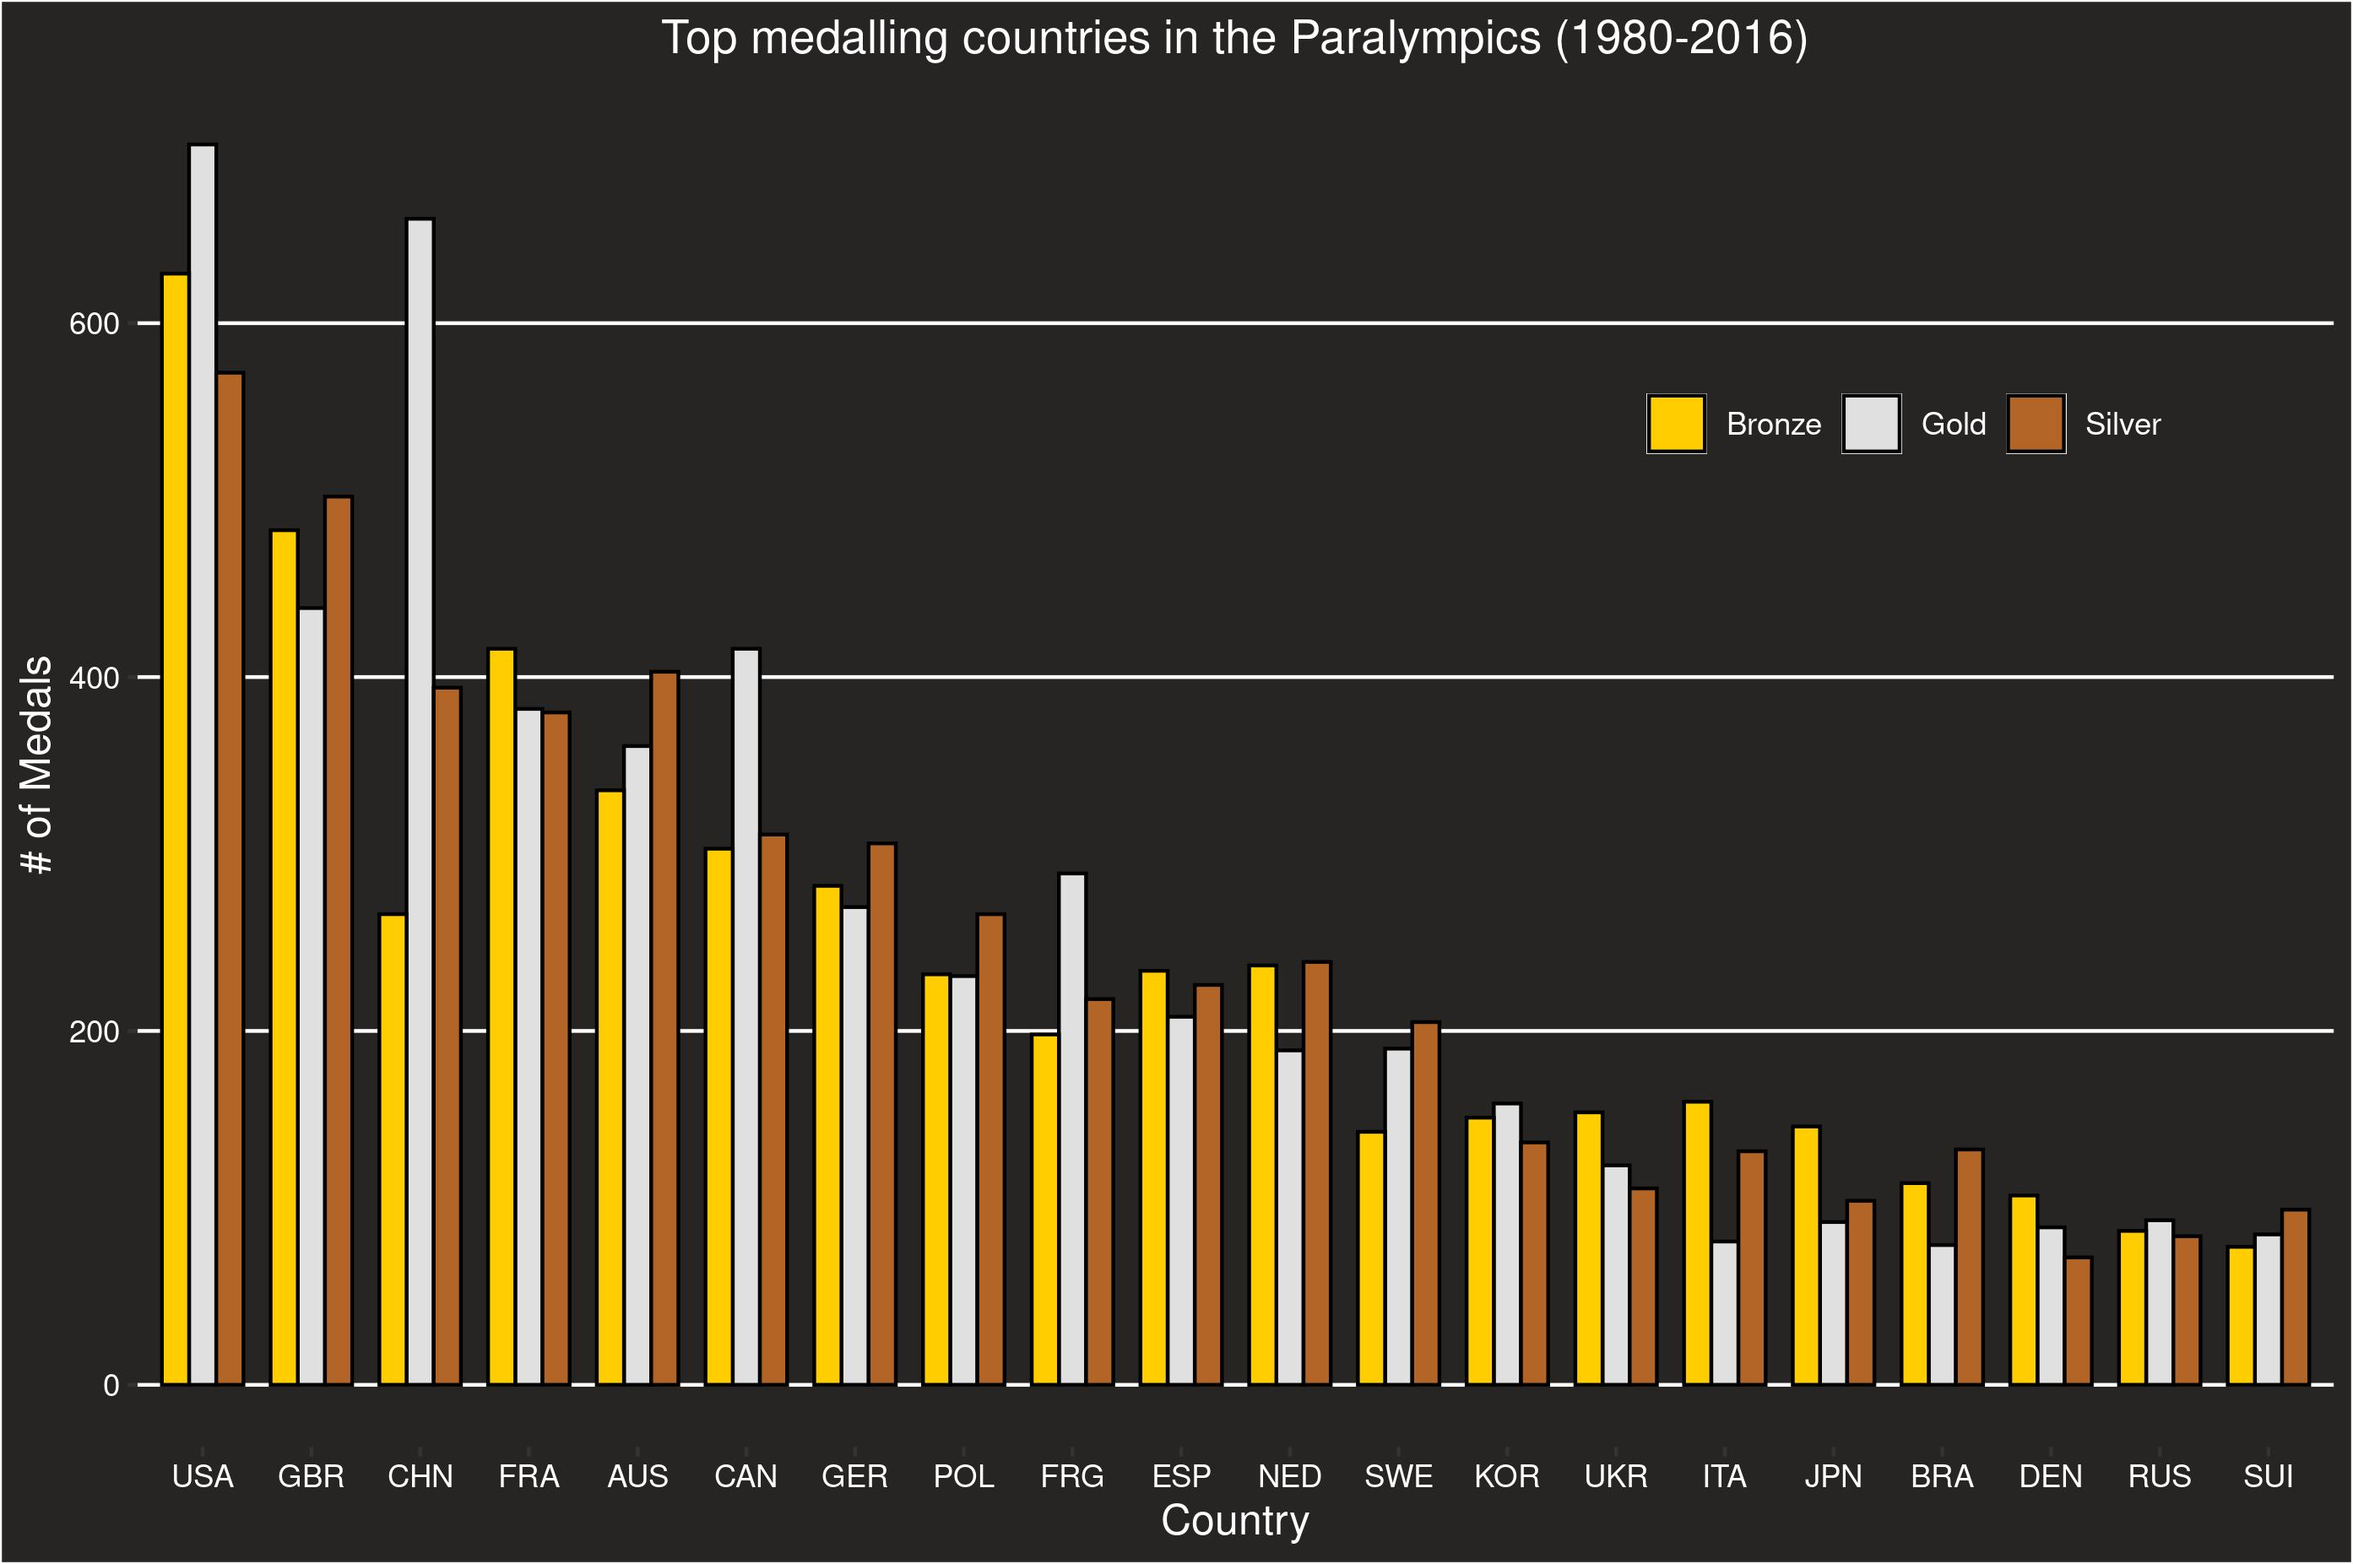
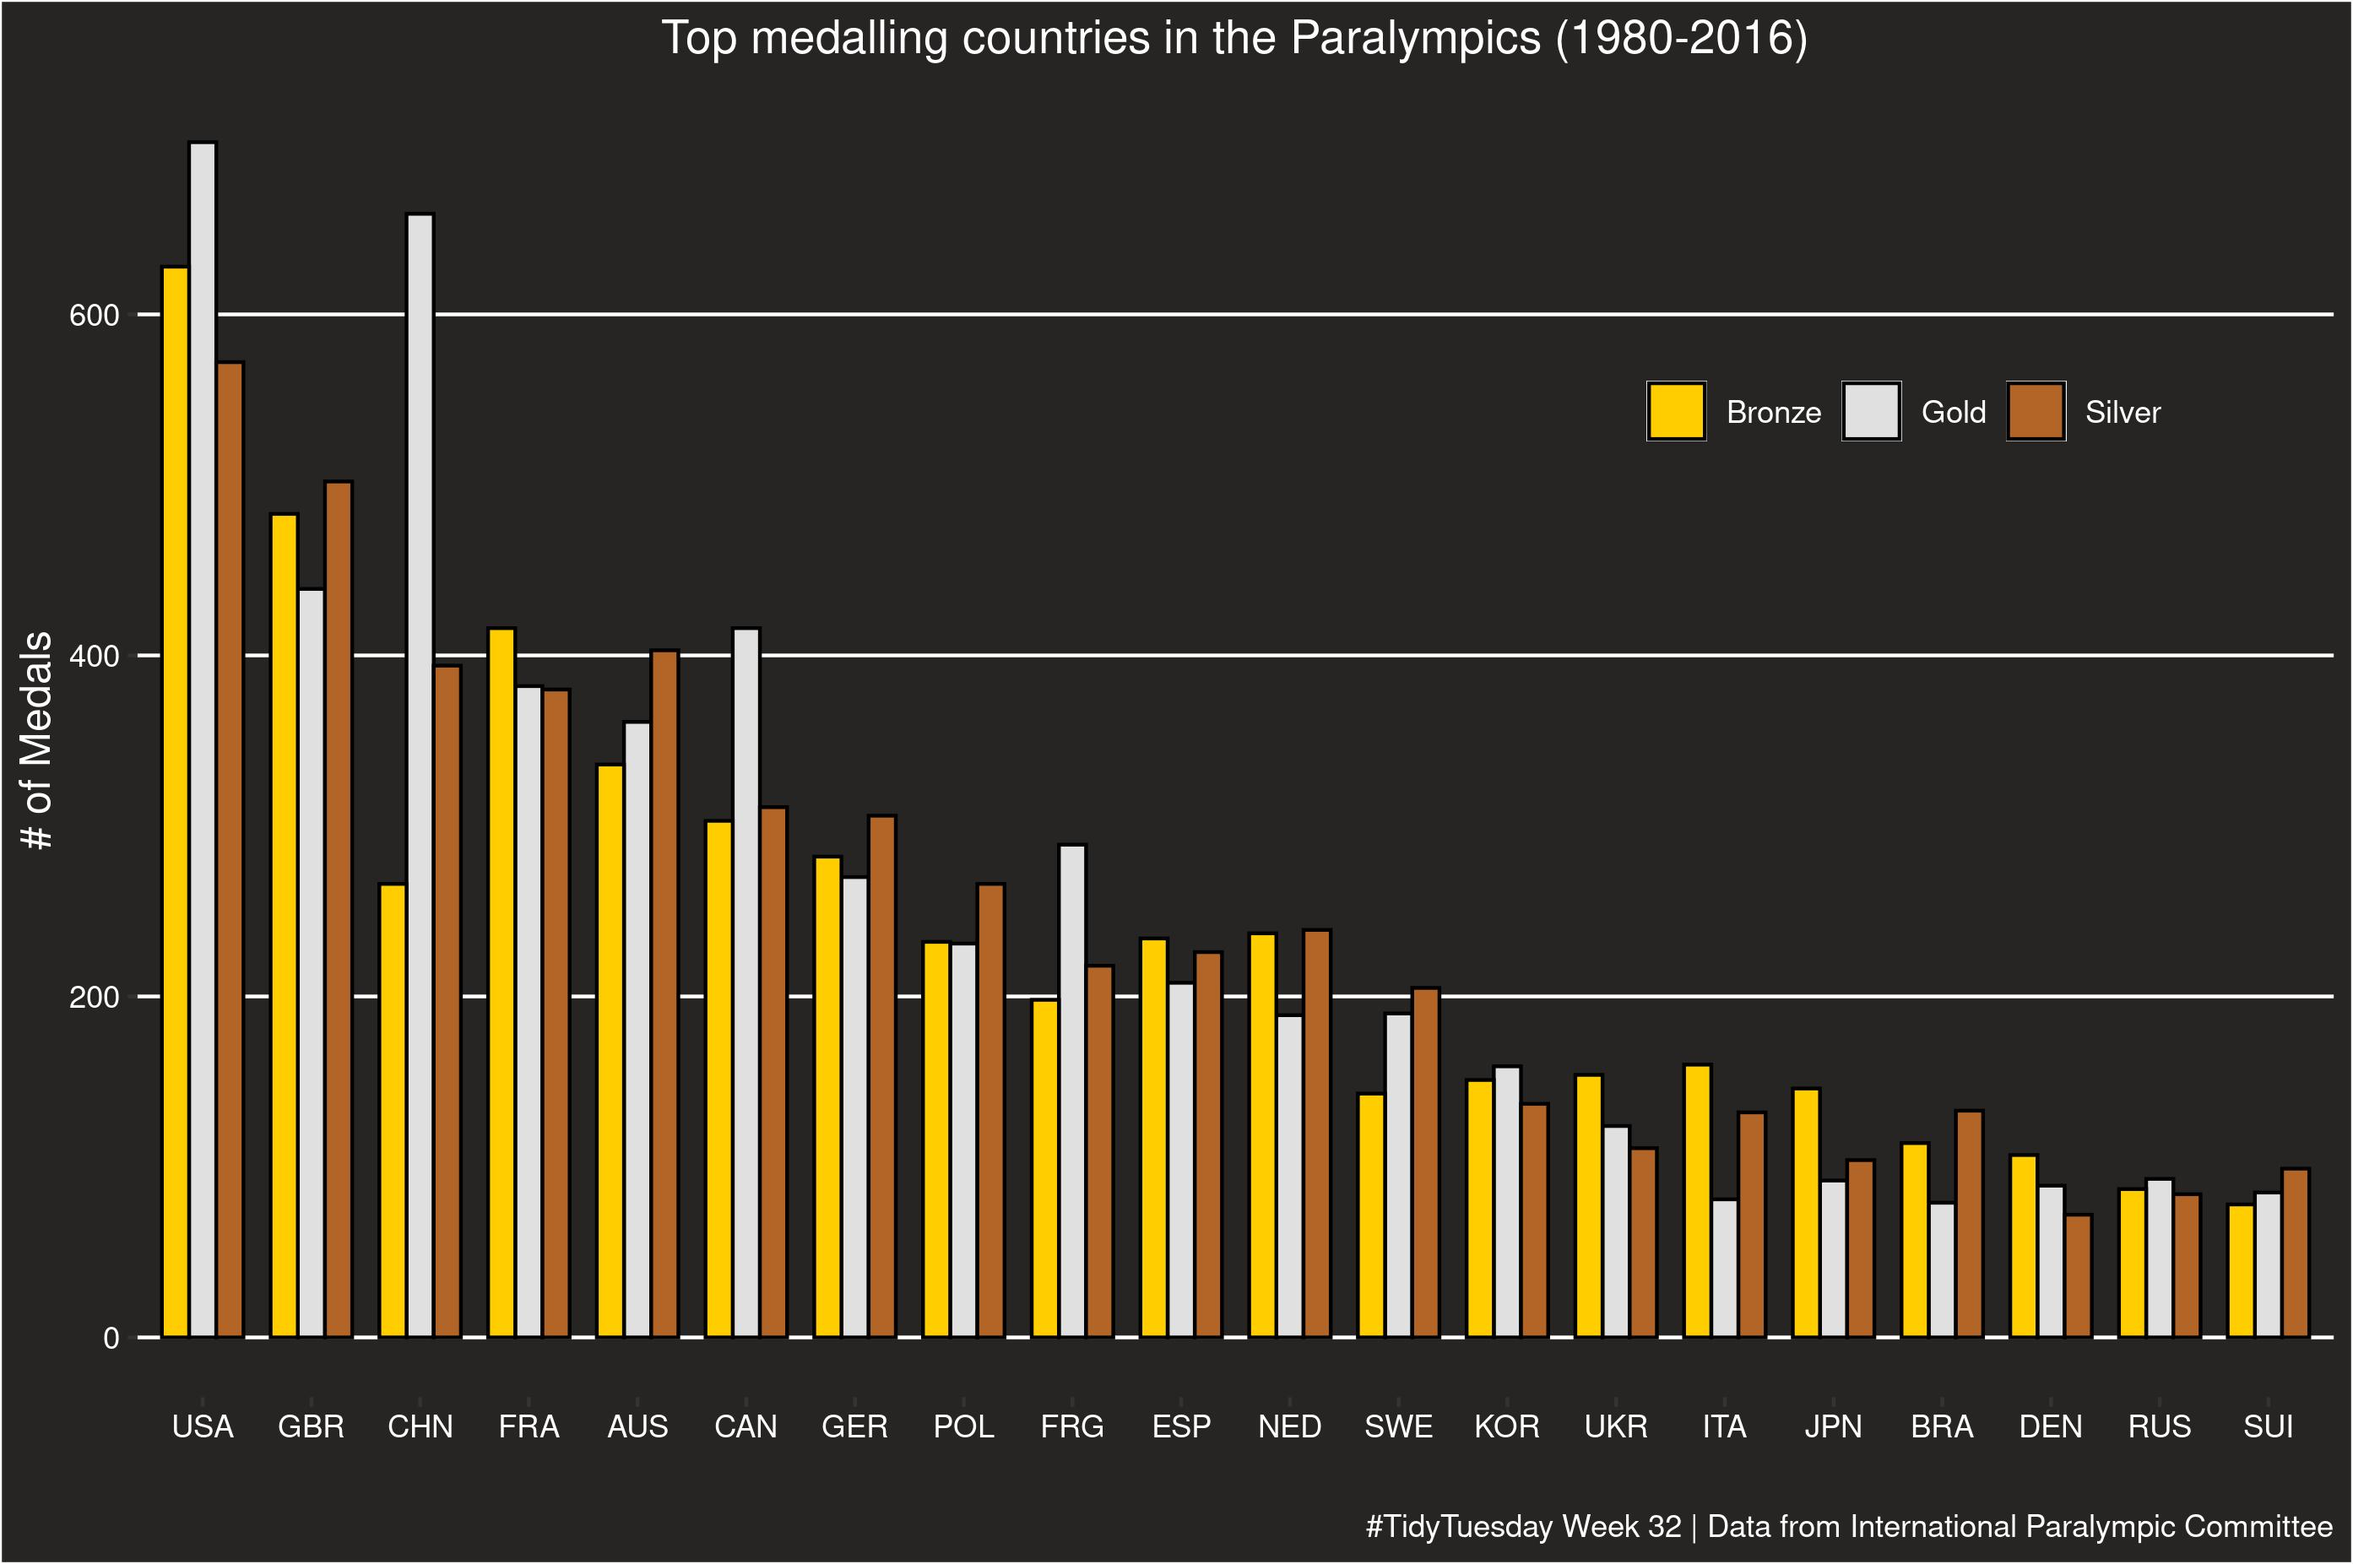
Added caption with data citation

diff --git a/README.md b/README.md
@@ -1,3 +1,4 @@
 Timelapse of my plotting skills
 
-![Paralympics medals](20210803/Paramlympics_medals.jpg?raw=true "Title")
+August 3rd, 2021
+![Bar plot of Paralympics medals by country](20210803/Paramlympics_medals.jpg?raw=true "Title")
